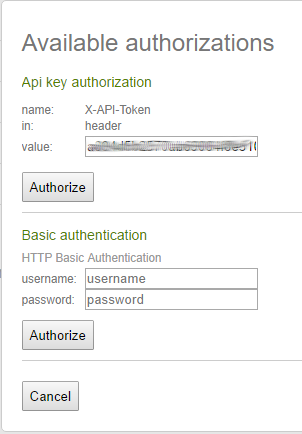
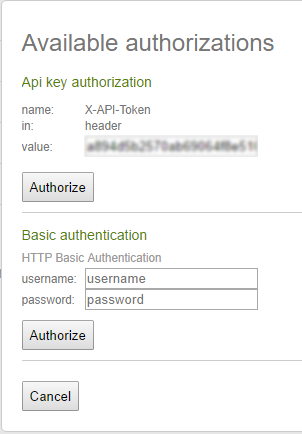
Updated images and some grammer and wording with doc

Changed region(s): [[0.2682, 0.2995, 0.8642, 0.3594]]

diff --git a/vs-mobile-center-docs/api-docs/index.md b/vs-mobile-center-docs/api-docs/index.md
@@ -24,19 +24,11 @@ Explore the Mobile Center API Service with [swagger](https://docs.mobile.azure.c
 	![The account details menu to select Settings](~/api-docs/images/mc_menu_dialog.PNG)
 
 3. Select **API Tokens** from the menu list
-4. Click on **New API token**  at the top and enter an appropriate description into the field
-5. This will generate a pop up with your API token. Copy it and store it in a secure location for use later
-6. Now navigate to https://docs.mobile.azure.com/api/ and click on the **Authorize** button on the top.
-7. Under **Api key authorization** section, paste the API key token value that you just copied.
+4. Click **New API token**  at the top and enter an appropriate description into the text field
+5. This will generate a pop up with your API token. Copy and store it in a secure location for later use
+6. Navigate to https://docs.mobile.azure.com/api/ and click on the **Authorize** button on the top.
+7. Under **Api key authorization** section, paste the API key token value that you just copied into the text field and click **Authorize**
 
-![Setting api token value to authorize our API's](~/api-docs/images/authorization_withtoken.PNG)
+	![Setting api token value to authorize our API's](~/api-docs/images/authorization_withtoken.PNG)
 
-8. This API token will be used to make all calls to the Mobile Center APIs. You can try out any API and see the response.
-
-## Known Limitations
-
-You cannot obtain your API key using your GitHub or Microsoft account. You need to set a password in Mobile Center and authenticate with your Mobile Center username and password. Please follow these steps to set a password and avoid seeing the "Unauthorized" error code when you attempt to create the API token.
-  1. Logout from Mobile Center.
-  2. Navigate to the link to reset your password - https://mobile.azure.com/reset. You will get a mail that takes you to create a new password in Mobile Center.
-  3. Once you have created your password, use it along with your Mobile Center username to perform the basic authentication outlined above.
-  4. The `POST /v0.1/api_tokens` request should now return a valid API token.
+8. You are now able to use any Mobile Center API and see the response.
